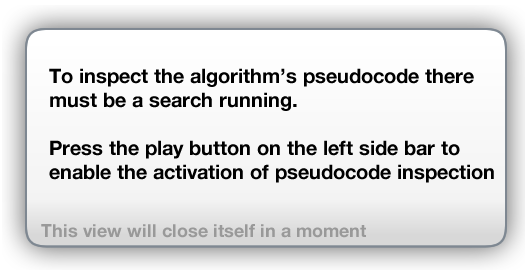
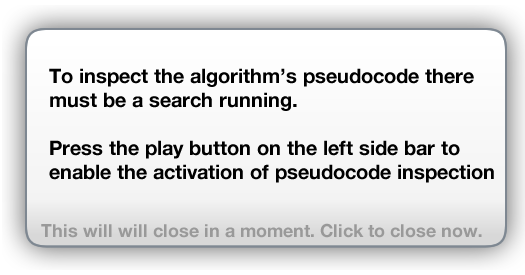
Made SoundController static. Added sounds for error messages for. Make errorPopups close on click

Changed region(s): [[0.1524, 0.8145, 0.9143, 0.8727]]

diff --git a/core/src/com/b3/gui/ErrorPopups.java b/core/src/com/b3/gui/ErrorPopups.java
@@ -12,6 +12,9 @@ import com.badlogic.gdx.graphics.g2d.SpriteBatch;
  */
 public class ErrorPopups {
 
+    public static boolean shouldClose;
+    public static boolean justOpen;
+
     private final OrthographicCamera camera;
     private final WorldCamera worldCamera;
 
@@ -24,6 +27,8 @@ public class ErrorPopups {
     private long startSeconds;
 
     public ErrorPopups(WorldCamera worldCamera, Sprite sprite) {
+        justOpen = false;
+        shouldClose = false;
         this.worldCamera = worldCamera;
         this.sprite = sprite;
         noOfTicksDisplay = 0;
@@ -34,6 +39,9 @@ public class ErrorPopups {
     }
 
     public void showPopup(int noOfTicksDisplay) {
+
+        justOpen = true;
+
         if (this.noOfTicksDisplay > 10) {
             System.err.println("ALREADY DISPLAYING POPUP");
         } else {
@@ -46,6 +54,9 @@ public class ErrorPopups {
     }
 
     public void render() {
+
+        if (shouldClose && noOfTicksDisplay > 100) { noOfTicksDisplay = 100; shouldClose = false;}
+
         //if has not ran out of time
         if (noOfTicksDisplay != 0) {
             //decrement time left allowed on screen
@@ -64,6 +75,7 @@ public class ErrorPopups {
             float imgWidth;
             float imgHeight;
             if (noOfTicksDisplay < 100) {
+                justOpen = false;
                 imgHeight = sprite.getHeight() / (100-noOfTicksDisplay);
                 if (noOfTicksDisplay < 50) {
                     imgWidth = sprite.getWidth() / (50-noOfTicksDisplay);

diff --git a/core/src/com/b3/world/World.java b/core/src/com/b3/world/World.java
@@ -12,7 +12,6 @@ import com.b3.event.EventGenerator;
 import com.b3.gui.ErrorPopups;
 import com.b3.gui.RenderTester;
 import com.b3.input.InputHandler;
-import com.b3.input.SoundController;
 import com.b3.search.Node;
 import com.b3.search.Point;
 import com.b3.search.WorldGraph;
@@ -54,8 +53,6 @@ import static com.b3.world.BuildingType.HOUSE;
 public class World implements Disposable {
 
 	private static short ENTITY_CULL_TAG = 10101;
-
-	private SoundController soundController;
 
 	private TiledMap map;
 	private InputHandler inputHandler;
@@ -114,12 +111,11 @@ public class World implements Disposable {
 
 	}
 
-	public World(String fileName, Mode mode, InputHandler inputHandler, SoundController soundController) {
+	public World(String fileName, Mode mode, InputHandler inputHandler) {
 		pseudoCodeEnabled = true;
 
 		this.inputHandler = inputHandler;
 		this.mode = mode;
-		this.soundController = soundController;
 
 		animationNextDestination = 0;
 		xNextDestination = 0;
@@ -878,10 +874,6 @@ public class World implements Disposable {
 		System.out.println("BAD");
 	}
 
-	public SoundController getSoundController() {
-		return soundController;
-	}
-
 	public void setPseudoCode(boolean enabled) {
 		pseudoCodeEnabled = enabled;
 	}
@@ -889,4 +881,5 @@ public class World implements Disposable {
 	public boolean getPseudoCode() {
 		return pseudoCodeEnabled;
 	}
+
 }

diff --git a/core/src/com/b3/gui/sidebars/SideBarIntensiveLearningMode.java b/core/src/com/b3/gui/sidebars/SideBarIntensiveLearningMode.java
@@ -4,6 +4,7 @@ import com.b3.MainGame;
 import com.b3.MainMenuScreen;
 import com.b3.gui.TabbedPane;
 import com.b3.gui.components.*;
+import com.b3.input.SoundController;
 import com.b3.search.SearchTicker;
 import com.b3.search.util.SearchAlgorithm;
 import com.b3.util.Config;
@@ -141,7 +142,7 @@ public class SideBarIntensiveLearningMode extends Table implements Disposable {
                     System.out.println("Add building mode is " + !currentBoolean);
                 } else {
                     world.showPopupError(1);
-                    //TODO SOUND GO HERE
+                    SoundController.playSounds(2);
                     System.err.println("Search has begun cannot add");
                 }
             }
@@ -182,7 +183,7 @@ public class SideBarIntensiveLearningMode extends Table implements Disposable {
                     System.out.println("Remove building mode is " + !currentBoolean);
                 } else {
                     world.showPopupError(1);
-                    //TODO SOUND GO HERE
+                    SoundController.playSounds(2);
                     System.err.println("Search has begun cannot add");
                 }
             }

diff --git a/core/src/com/b3/gui/sidebars/SideBarCompareMode.java b/core/src/com/b3/gui/sidebars/SideBarCompareMode.java
@@ -6,6 +6,7 @@ import com.b3.entity.ai.BehaviourMultiPathFind;
 import com.b3.entity.ai.BehaviourType;
 import com.b3.gui.TabbedPane;
 import com.b3.gui.components.*;
+import com.b3.input.SoundController;
 import com.b3.search.Node;
 import com.b3.search.Point;
 import com.b3.search.SearchTicker;
@@ -300,7 +301,7 @@ public class SideBarCompareMode extends Table implements Disposable {
                     System.out.println("Add building mode is " + !currentBoolean);
                 } else {
                     world.showPopupError(1);
-                    //TODO SOUND GO HERE
+                    SoundController.playSounds(2);
                     System.err.println("Search has begun cannot add");
                 }
             }
@@ -341,7 +342,7 @@ public class SideBarCompareMode extends Table implements Disposable {
                     System.out.println("Remove building mode is " + !currentBoolean);
                 } else {
                     world.showPopupError(1);
-                    //TODO SOUND GO HERE
+                    SoundController.playSounds(2);
                     System.err.println("Search has begun cannot add");
                 }
             }

diff --git a/core/src/com/b3/input/SoundController.java b/core/src/com/b3/input/SoundController.java
@@ -8,7 +8,7 @@ import com.badlogic.gdx.audio.Sound;
  */
 public class SoundController {
 
-    private Sound[] sounds;
+    private static Sound[] sounds;
 
     /**
      * Loads the sounds controller and loads all the potential sounds in to memory, should be called once at program launch.
@@ -27,7 +27,7 @@ public class SoundController {
      * @param soundIndex the number of the sounds to be played (ie the position it was in, when this object was created
      * @return true if played successfully; false if cannot find sounds or cannot be played
      */
-    public boolean playSounds (int soundIndex) {
+    public static boolean playSounds (int soundIndex) {
         if (soundIndex >= sounds.length) return false;
         sounds[soundIndex].play(1.0f);
         return true;

diff --git a/core/src/com/b3/MainGame.java b/core/src/com/b3/MainGame.java
@@ -1,6 +1,7 @@
 package com.b3;
 
 import com.b3.input.InputHandler;
+import com.b3.input.SoundController;
 import com.b3.util.Config;
 import com.badlogic.gdx.Game;
 import com.badlogic.gdx.graphics.g3d.shaders.DefaultShader;
@@ -21,9 +22,11 @@ public class MainGame extends Game {
 	 */
 	@Override
 	public void create() {
-		soundsDirList = new String[2];
+		soundsDirList = new String[3];
 		soundsDirList[0] = "core/assets/sounds/sad_failure.wav";
 		soundsDirList[1] = "core/assets/sounds/search_complete.mp3";
+		soundsDirList[2] = "core/assets/sounds/error_buildings.mp3";
+		new SoundController(soundsDirList);
 
 		// load config
 		Config.loadConfig("core/assets/reference.yml", "core/assets/userconfig.yml");

diff --git a/core/src/com/b3/input/WorldSelectionHandler.java b/core/src/com/b3/input/WorldSelectionHandler.java
@@ -2,6 +2,7 @@ package com.b3.input;
 
 import com.b3.entity.ai.Behaviour;
 import com.b3.entity.ai.BehaviourMultiPathFind;
+import com.b3.gui.ErrorPopups;
 import com.b3.search.Node;
 import com.b3.search.Point;
 import com.b3.search.WorldGraph;
@@ -32,6 +33,10 @@ public class WorldSelectionHandler extends InputAdapter {
 	public boolean touchDown(int screenX, int screenY, int pointer, int button) {
 		// selecting an entity
 		// todo
+
+		//Close error pop-ups if need
+		if (ErrorPopups.justOpen)
+			ErrorPopups.shouldClose = true;
 
 		//if near bottom of screen hitting the intensive learning mode button so ignore
 		if (screenX < 100 && screenY > Gdx.graphics.getHeight()-100) {

diff --git a/core/src/com/b3/entity/ai/BehaviourPathFind.java b/core/src/com/b3/entity/ai/BehaviourPathFind.java
@@ -2,6 +2,7 @@ package com.b3.entity.ai;
 
 import com.b3.entity.Agent;
 import com.b3.gui.ErrorPopups;
+import com.b3.input.SoundController;
 import com.b3.search.Node;
 import com.b3.search.Point;
 import com.b3.search.SearchTicker;
@@ -101,10 +102,10 @@ public class BehaviourPathFind extends Behaviour implements BehaviourWithPathFin
 			world.setPseudoCode(false);
 		}
 		if (shouldPlayFail == 1) {
-			world.getSoundController().playSounds(1);
+			SoundController.playSounds(1);
 		}
 		if (shouldPlayFail == -1) {
-			world.getSoundController().playSounds(0);
+			SoundController.playSounds(0);
 		}
 
 		wasArrivedLastFrame = hasArrivedThisFrame;

diff --git a/core/src/com/b3/PracticeMode.java b/core/src/com/b3/PracticeMode.java
@@ -31,12 +31,8 @@ public class PracticeMode implements Screen {
     private SideBarNodes sideBarNodes;
 
     public PracticeMode(MainGame game) {
-        // set up the sounds
-        String[] arrSoundsDir = game.getSoundsDirList();
-        SoundController soundController = new SoundController(arrSoundsDir);
-
         // create world
-        world = new World("core/assets/world/world_smaller_test_tiym.tmx", Mode.TRY_YOURSELF, game.inputHandler, soundController);
+        world = new World("core/assets/world/world_smaller_test_tiym.tmx", Mode.TRY_YOURSELF, game.inputHandler);
 
         // init gui
         setupSidebar();

diff --git a/core/src/com/b3/LearningMode.java b/core/src/com/b3/LearningMode.java
@@ -45,12 +45,8 @@ public class LearningMode implements Screen {
 
         this.game = game;
 
-        // set up the sounds
-        String[] arrSoundsDir = game.getSoundsDirList();
-        SoundController soundController = new SoundController(arrSoundsDir);
-
         // create world
-        world = new World("core/assets/world/world_smaller_test.tmx", Mode.LEARNING, game.inputHandler, soundController);
+        world = new World("core/assets/world/world_smaller_test.tmx", Mode.LEARNING, game.inputHandler);
 
         // init gui
         setupSidebar();

diff --git a/core/src/com/b3/CompareMode.java b/core/src/com/b3/CompareMode.java
@@ -32,12 +32,8 @@ public class CompareMode implements Screen {
         // init database
         //Database.init();
 
-        // set up the sounds
-        String[] arrSoundsDir = game.getSoundsDirList();
-        SoundController soundController = new SoundController(arrSoundsDir);
-
         // create world
-        world = new World("core/assets/world/world.tmx", Mode.COMPARE, game.inputHandler, soundController);
+        world = new World("core/assets/world/world.tmx", Mode.COMPARE, game.inputHandler);
 
         // init gui
         setupSidebar();
